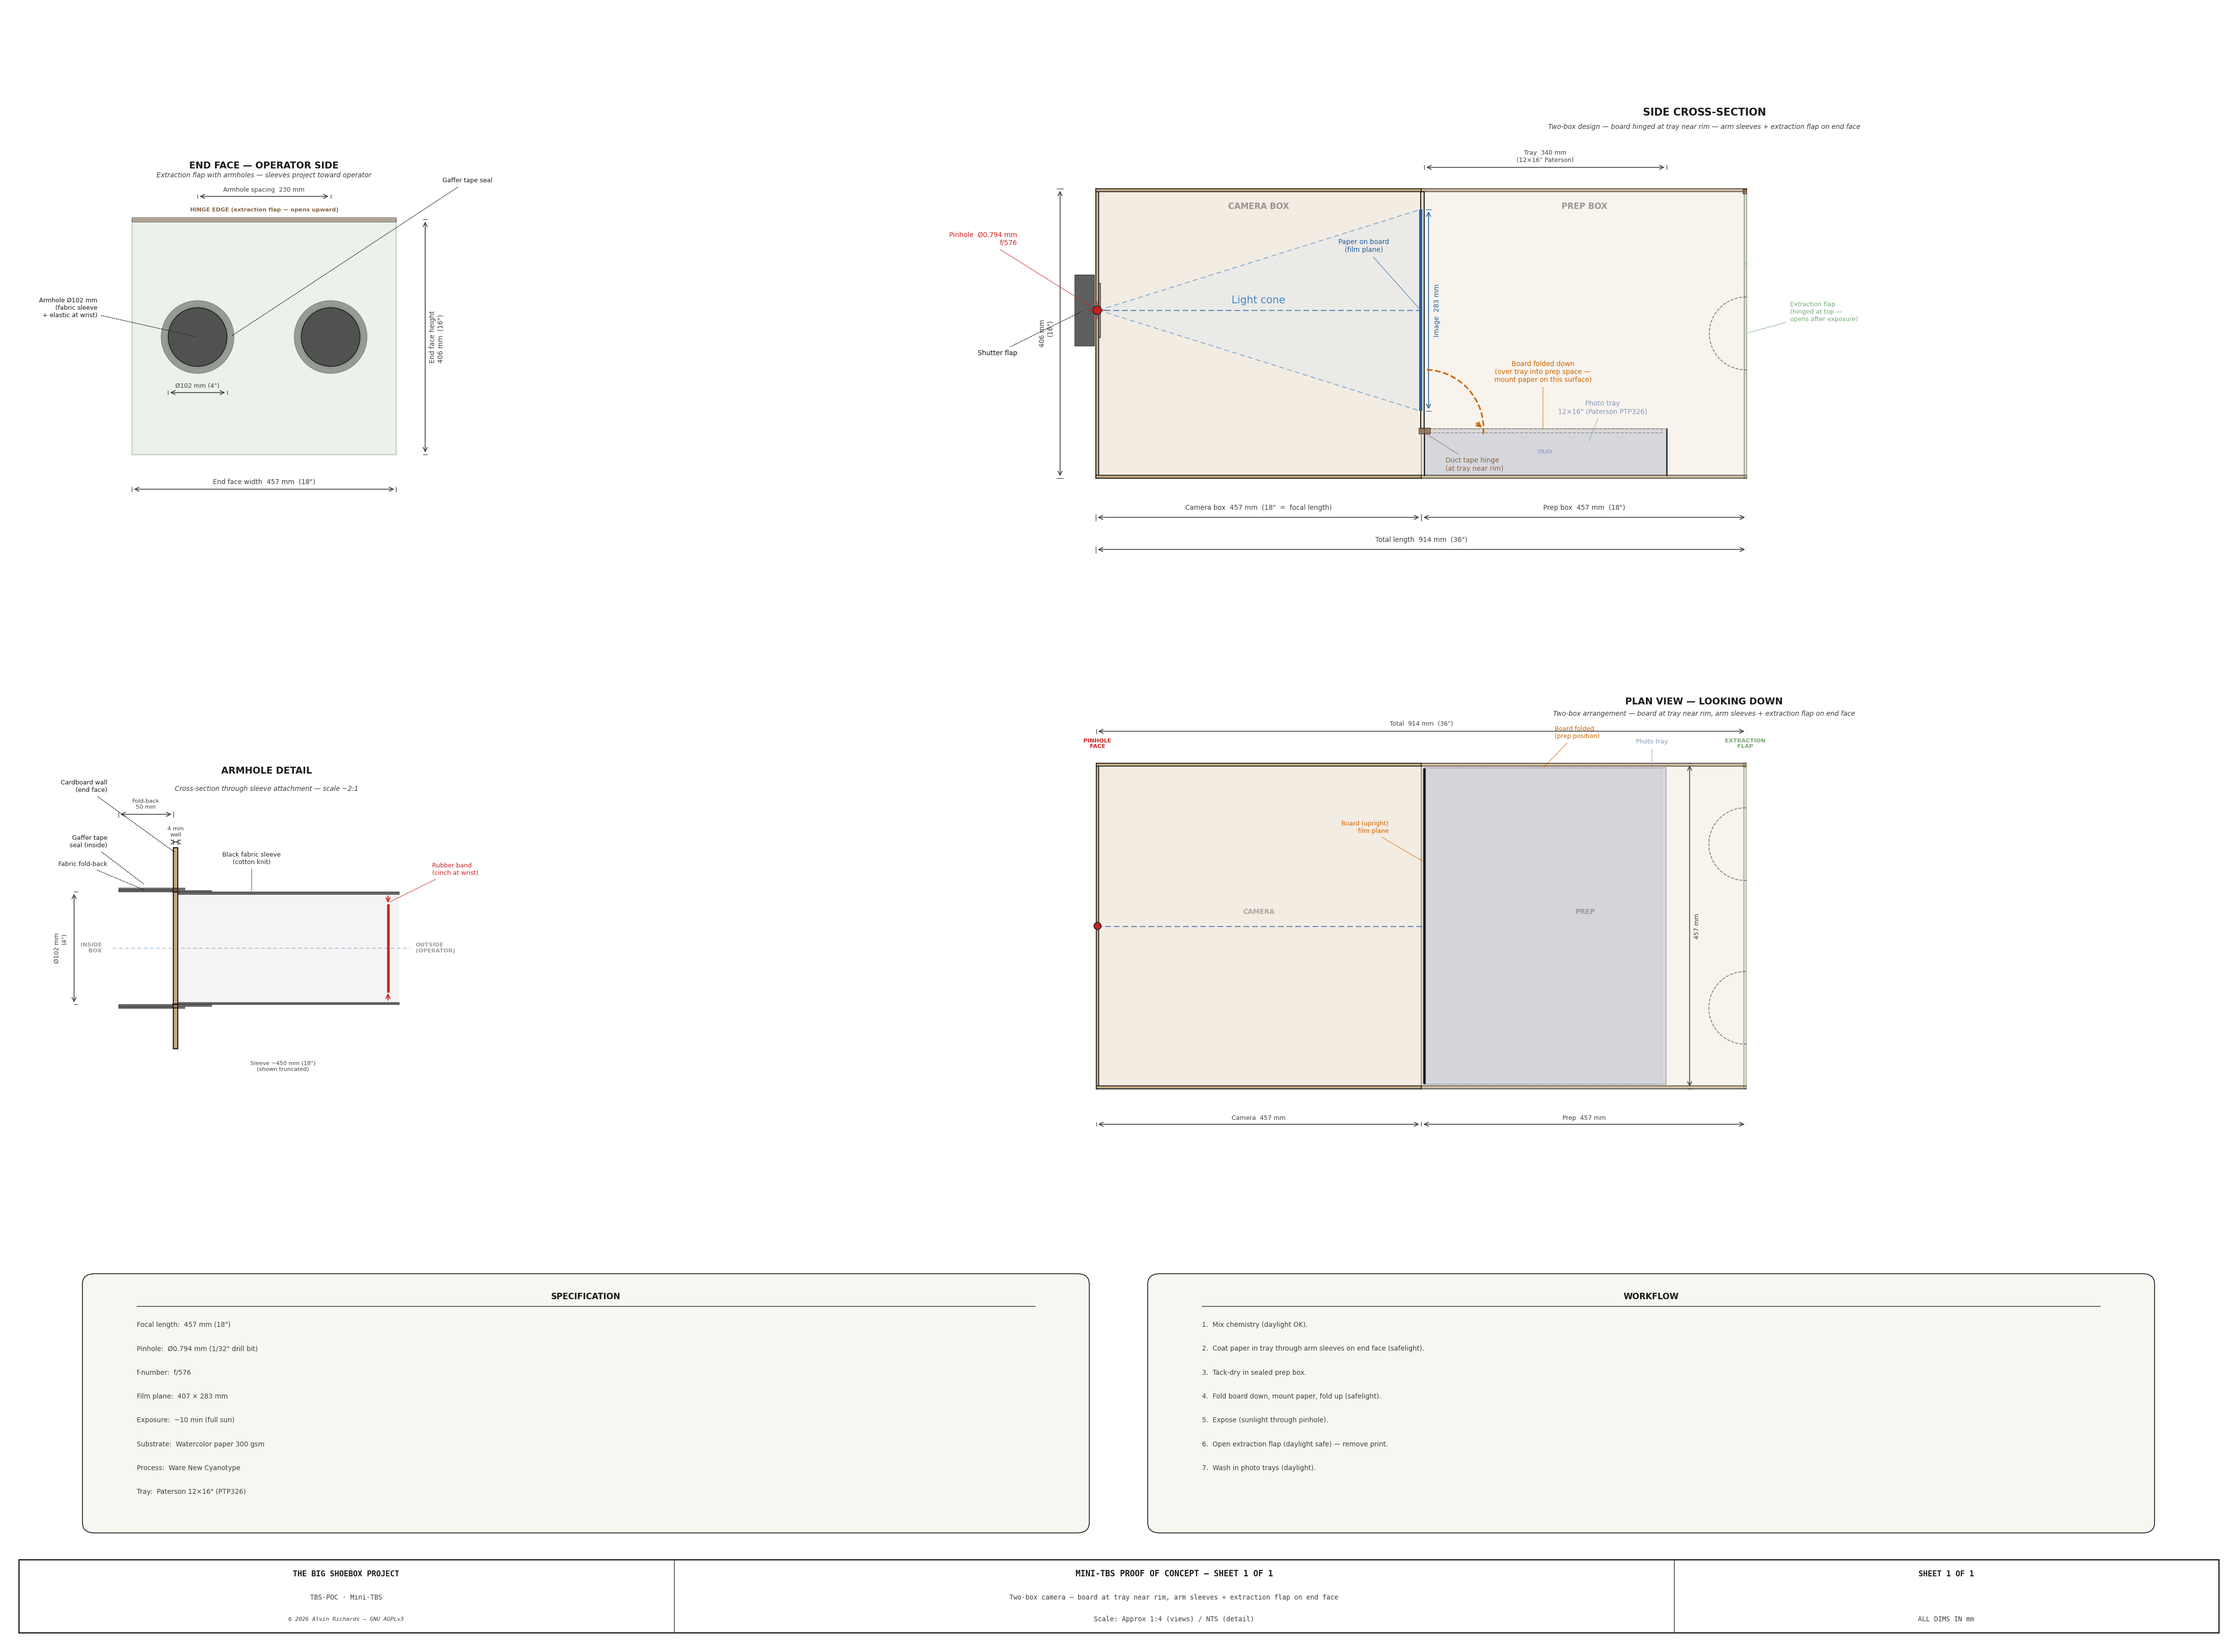
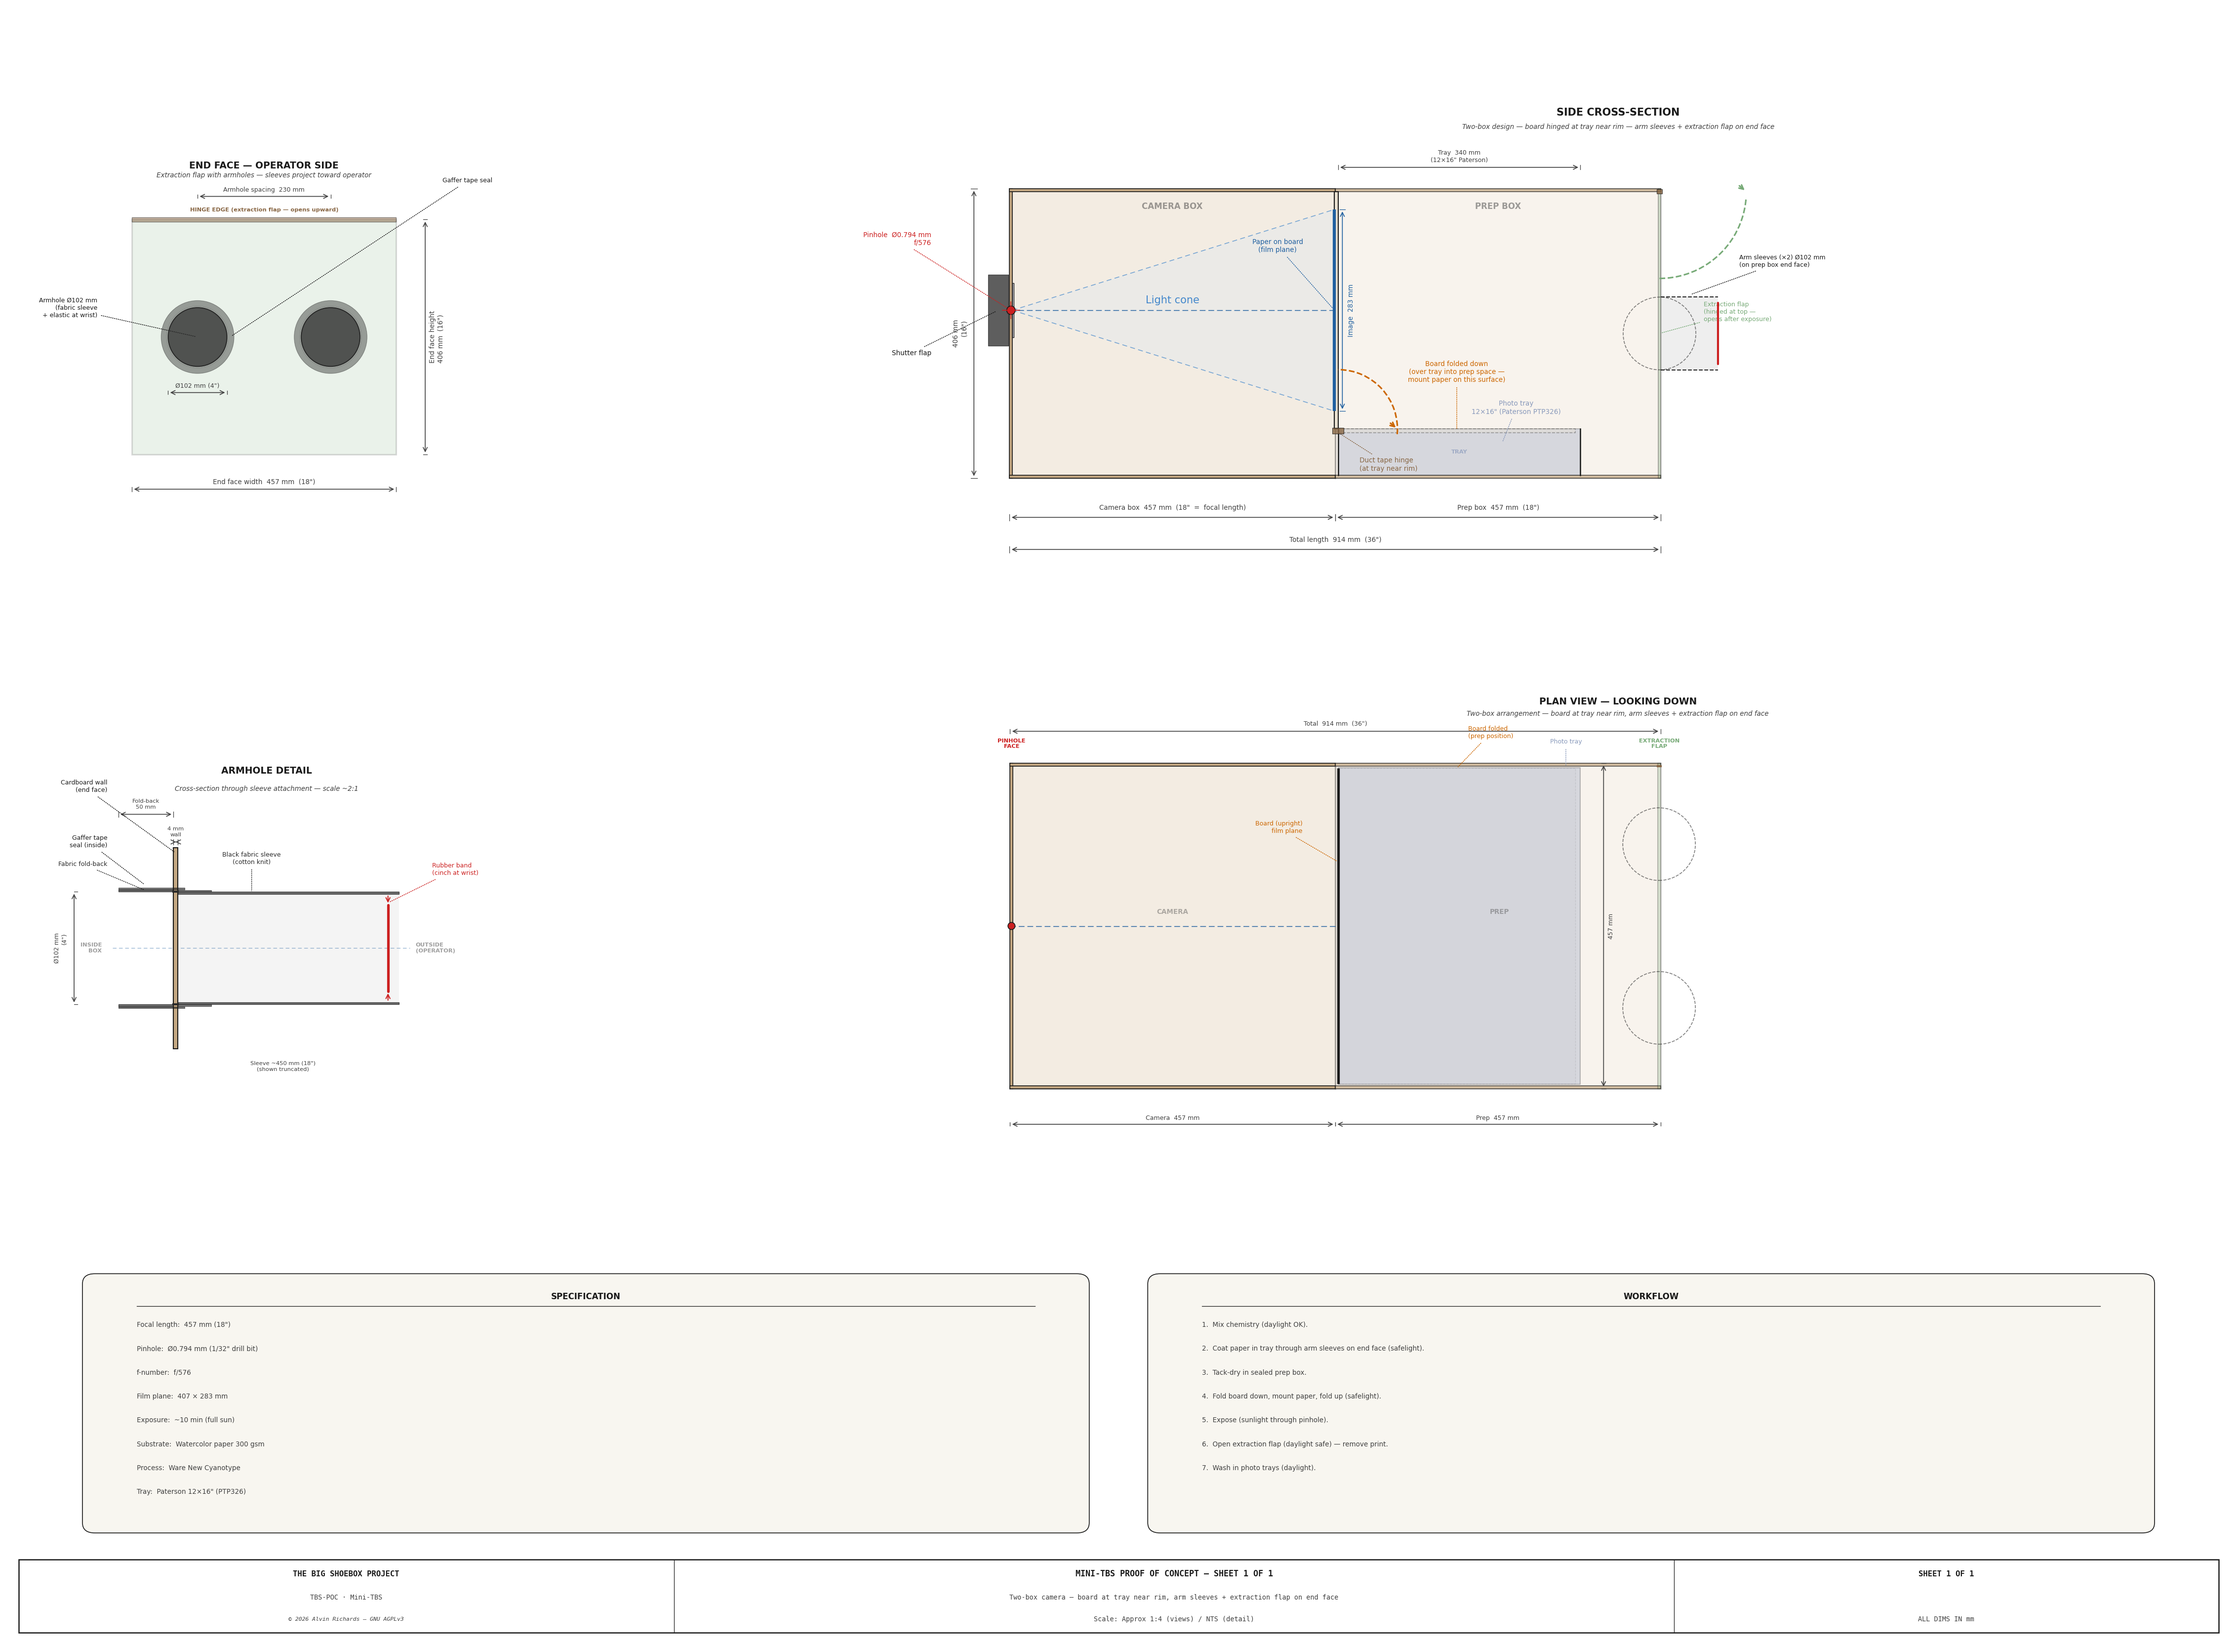
Fix extraction flap arc visibility — extend axis limits
The flap arc was clipped by the axis right edge. Extended xlim on both
cross-section and plan view to show the arc and arrow. Raised arc
zorder to ensure it draws above the end face fill.

diff --git a/generate_mini_tbs_diagram.py b/generate_mini_tbs_diagram.py
@@ -151,7 +151,9 @@ hinge_y = WALL_T + TRAY_RIM        # hinge height (at tray near rim level)
 board_fold_end = hinge_x + BOARD_H  # board tip when folded horizontal
 
 PAD = 120
-ax.set_xlim(-PAD - 40, board_fold_end + PAD)
+# Extend right limit to show extraction flap arc and open position
+flap_open_end = BOX_D + PREP_D + BOX_H * 0.3  # enough to show arc + partial open flap
+ax.set_xlim(-PAD - 40, max(board_fold_end + PAD, flap_open_end + PAD))
 ax.set_ylim(-PAD - 30, BOX_H + PAD + 20)
 
 # ── Camera box (left) ───────────────────────────────────────────────────────
@@ -191,20 +193,16 @@ ax.add_patch(mpatches.Rectangle((prep_end_x - 2, hinge_flap_y - 3), WALL_T + 4, 
              facecolor=C_HINGE, edgecolor=C_OUT, linewidth=0.5, alpha=0.8, zorder=8))
 
 # Extraction flap motion arc — swings outward from top hinge
-flap_arc_r = BOX_H * 0.25
-flap_arc = Arc((prep_end_x + WALL_T / 2, hinge_flap_y), flap_arc_r * 2, flap_arc_r * 2,
+flap_arc_r = BOX_H * 0.3
+flap_hinge_x = prep_end_x + WALL_T / 2
+flap_arc = Arc((flap_hinge_x, hinge_flap_y), flap_arc_r * 2, flap_arc_r * 2,
                angle=0, theta1=-90, theta2=-5,
-               color=C_FLAP, lw=1.5, ls="--", zorder=7)
+               color=C_FLAP, lw=1.5, ls="--", zorder=9)
 ax.add_patch(flap_arc)
 # Arrow at the horizontal end (flap open position)
-ax.annotate("", xy=(prep_end_x + WALL_T / 2 + flap_arc_r, hinge_flap_y),
-            xytext=(prep_end_x + WALL_T / 2 + flap_arc_r - 12, hinge_flap_y + 10),
-            arrowprops=dict(arrowstyle="->", color=C_FLAP, lw=1.5), zorder=7)
-# Dashed flap in open position (horizontal, extending rightward from hinge)
-ax.add_patch(mpatches.Rectangle((prep_end_x + WALL_T / 2, hinge_flap_y),
-             BOX_H, WALL_T,
-             facecolor=C_FLAP, edgecolor=C_OUT, linewidth=0.6,
-             linestyle="--", alpha=0.15, zorder=2))
+ax.annotate("", xy=(flap_hinge_x + flap_arc_r, hinge_flap_y),
+            xytext=(flap_hinge_x + flap_arc_r - 12, hinge_flap_y + 10),
+            arrowprops=dict(arrowstyle="->", color=C_FLAP, lw=1.5), zorder=9)
 
 # ── Photo tray (Paterson 12×16") inside prep box ──────────────────────────
 ax.add_patch(mpatches.Rectangle((tray_x, WALL_T), TRAY_EXT_D, TRAY_RIM,
@@ -588,7 +586,7 @@ ax.set_aspect("equal")
 ax.axis("off")
 
 PPAD = PAD   # match cross-section padding for vertical alignment
-ax.set_xlim(-PPAD - 40, board_fold_end + PPAD)
+ax.set_xlim(-PPAD - 40, max(board_fold_end + PPAD, flap_open_end + PPAD))
 ax.set_ylim(-PPAD, BOX_W + PPAD)
 
 # Camera box (left) — depth × width
